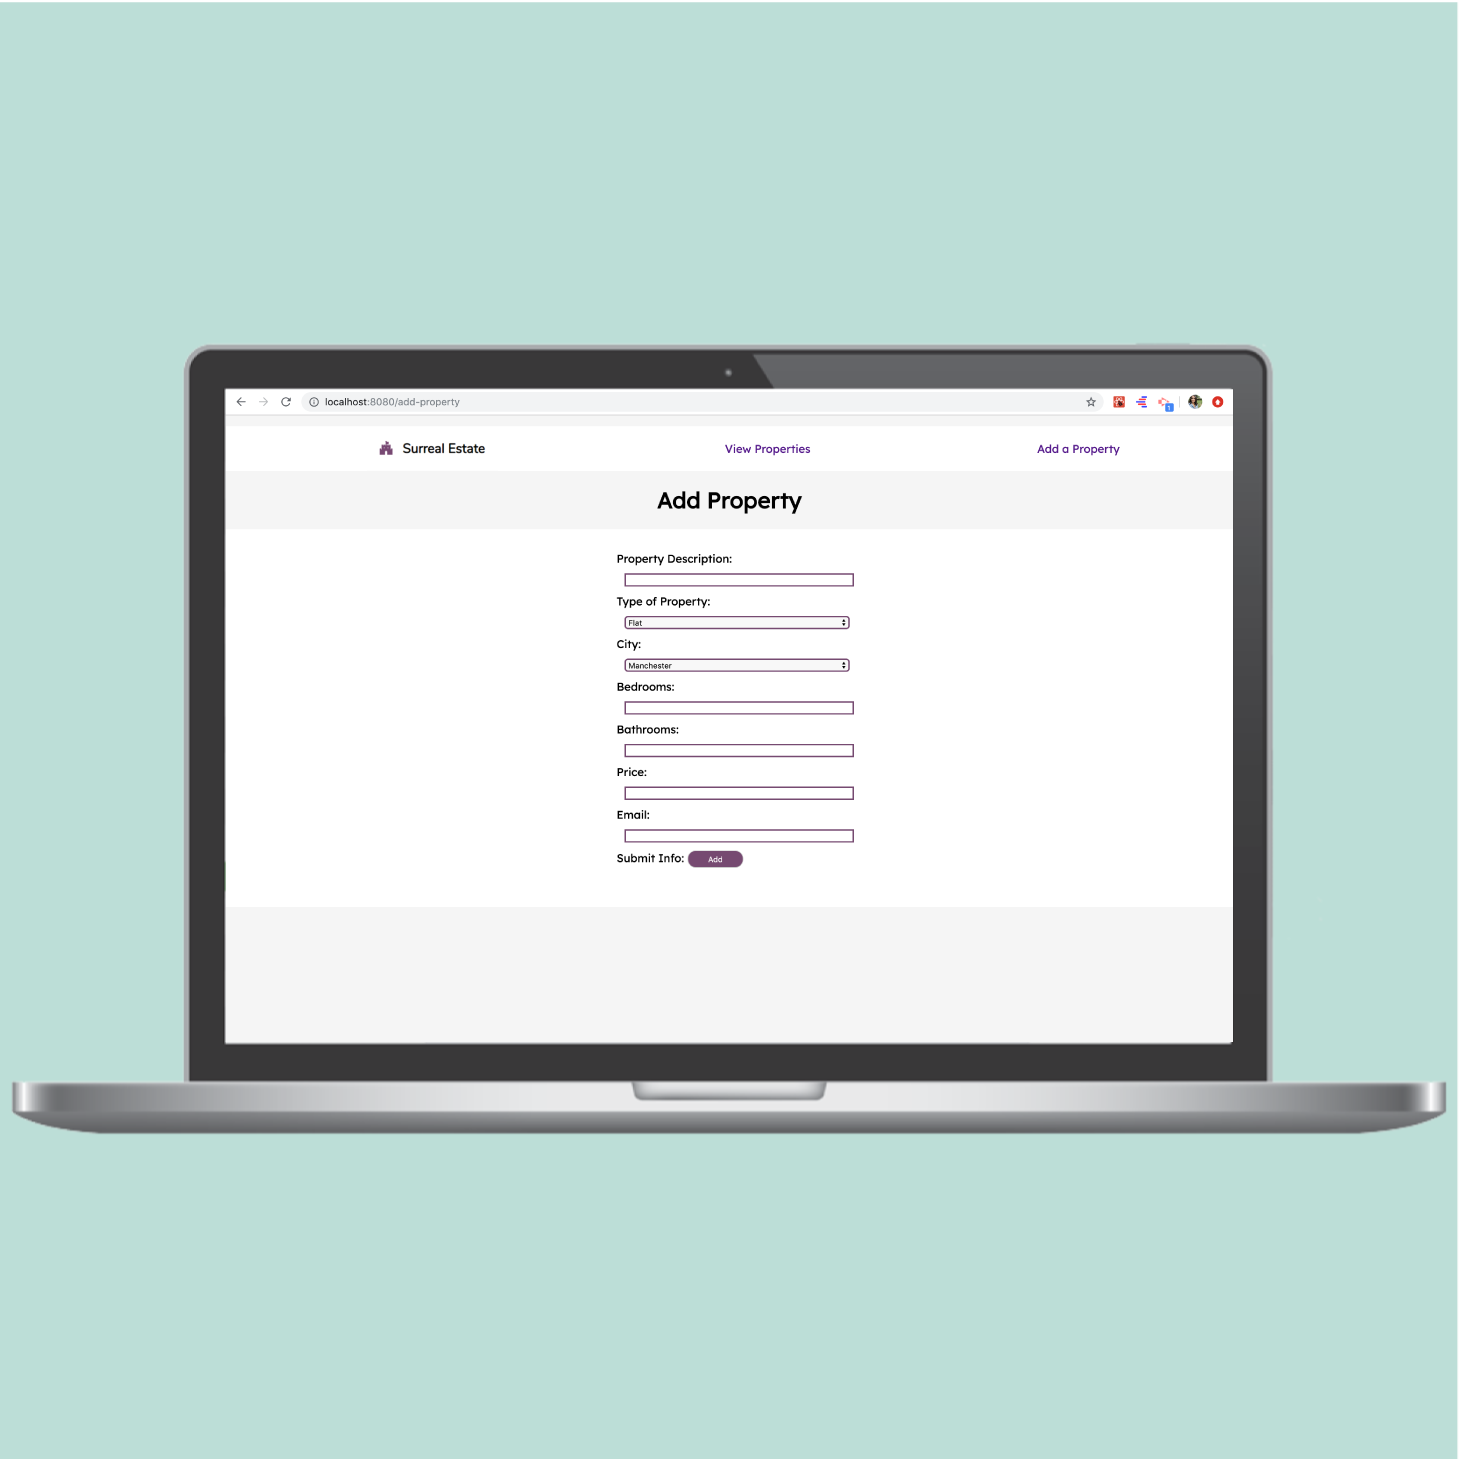
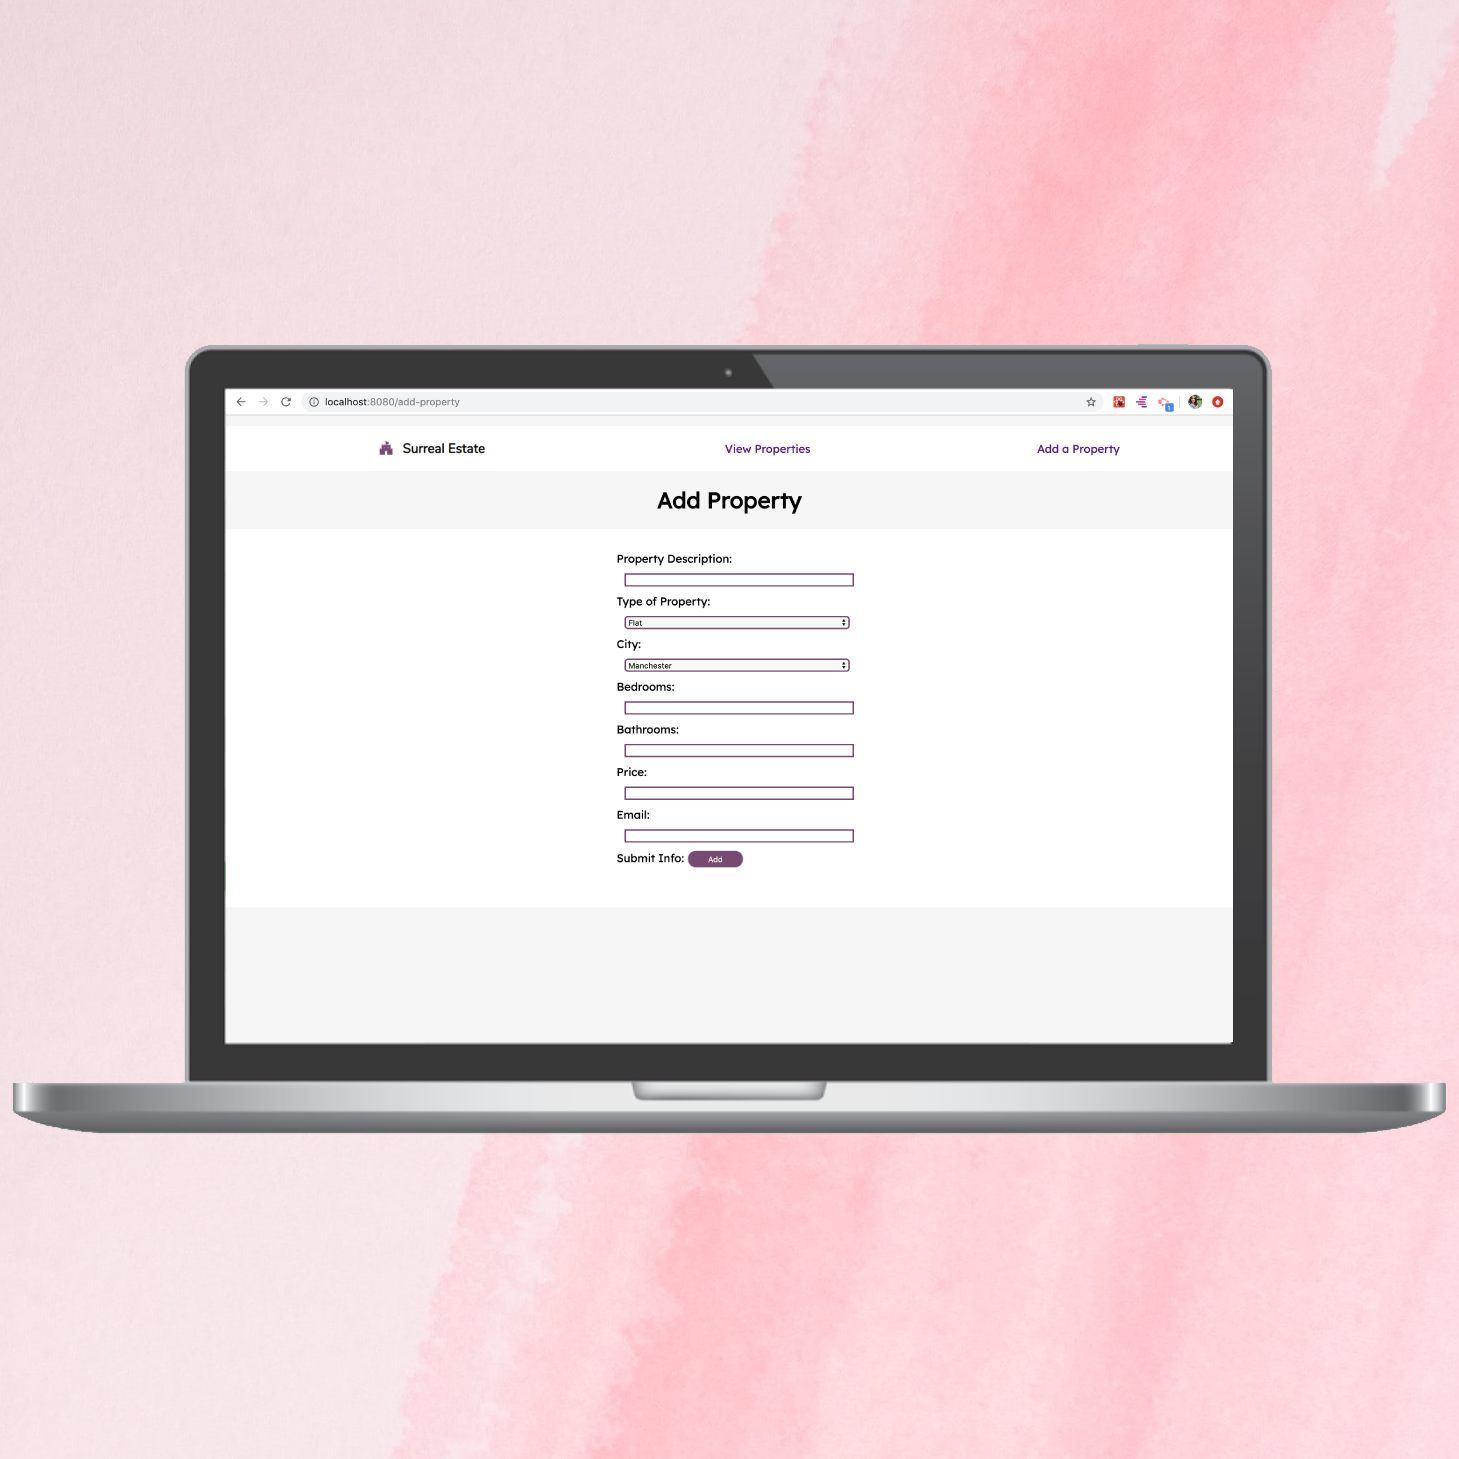
changed background colours and updated pictures

diff --git a/src/styles/projects.scss b/src/styles/projects.scss
@@ -30,13 +30,12 @@
     margin: 4rem;
     &:hover {
         visibility: visible;
-        background: rgb(138,198,209);
-        background: radial-gradient(circle, rgba(138,198,209,1) 0%, rgba(165,199,223,1) 75%, rgba(225,201,255,1) 100%);
+        background: $colorWhite;
         padding: 3rem;
         animation: homeAnimation 1s forwards 0s linear;
         box-shadow: 0 1rem 2rem rgba($colorBlack,.2);
         .Projects_image{
-            opacity: 5%;
+            opacity: 1%;
             z-index: -1;
         }
     }

diff --git a/src/styles/social.scss b/src/styles/social.scss
@@ -13,6 +13,8 @@
     margin-top: 4rem;
     background: rgb(225,201,255);
     background: radial-gradient(circle, rgba(225,201,255,1) 0%, rgba(138,198,209,1) 100%);
+    background-image: url("../images/pink.jpg");
+    background-size: cover;
 }
 
 .social-icons {

diff --git a/src/styles/about.scss b/src/styles/about.scss
@@ -10,6 +10,8 @@
     color: $colorBlack;
     background: rgb(225,201,255);
     background: radial-gradient(circle, rgba(225,201,255,1) 0%, rgba(138,198,209,1) 100%);
+    background-image: url("../images/pink.jpg");
+    background-size: cover;
 }
 
 .About {
